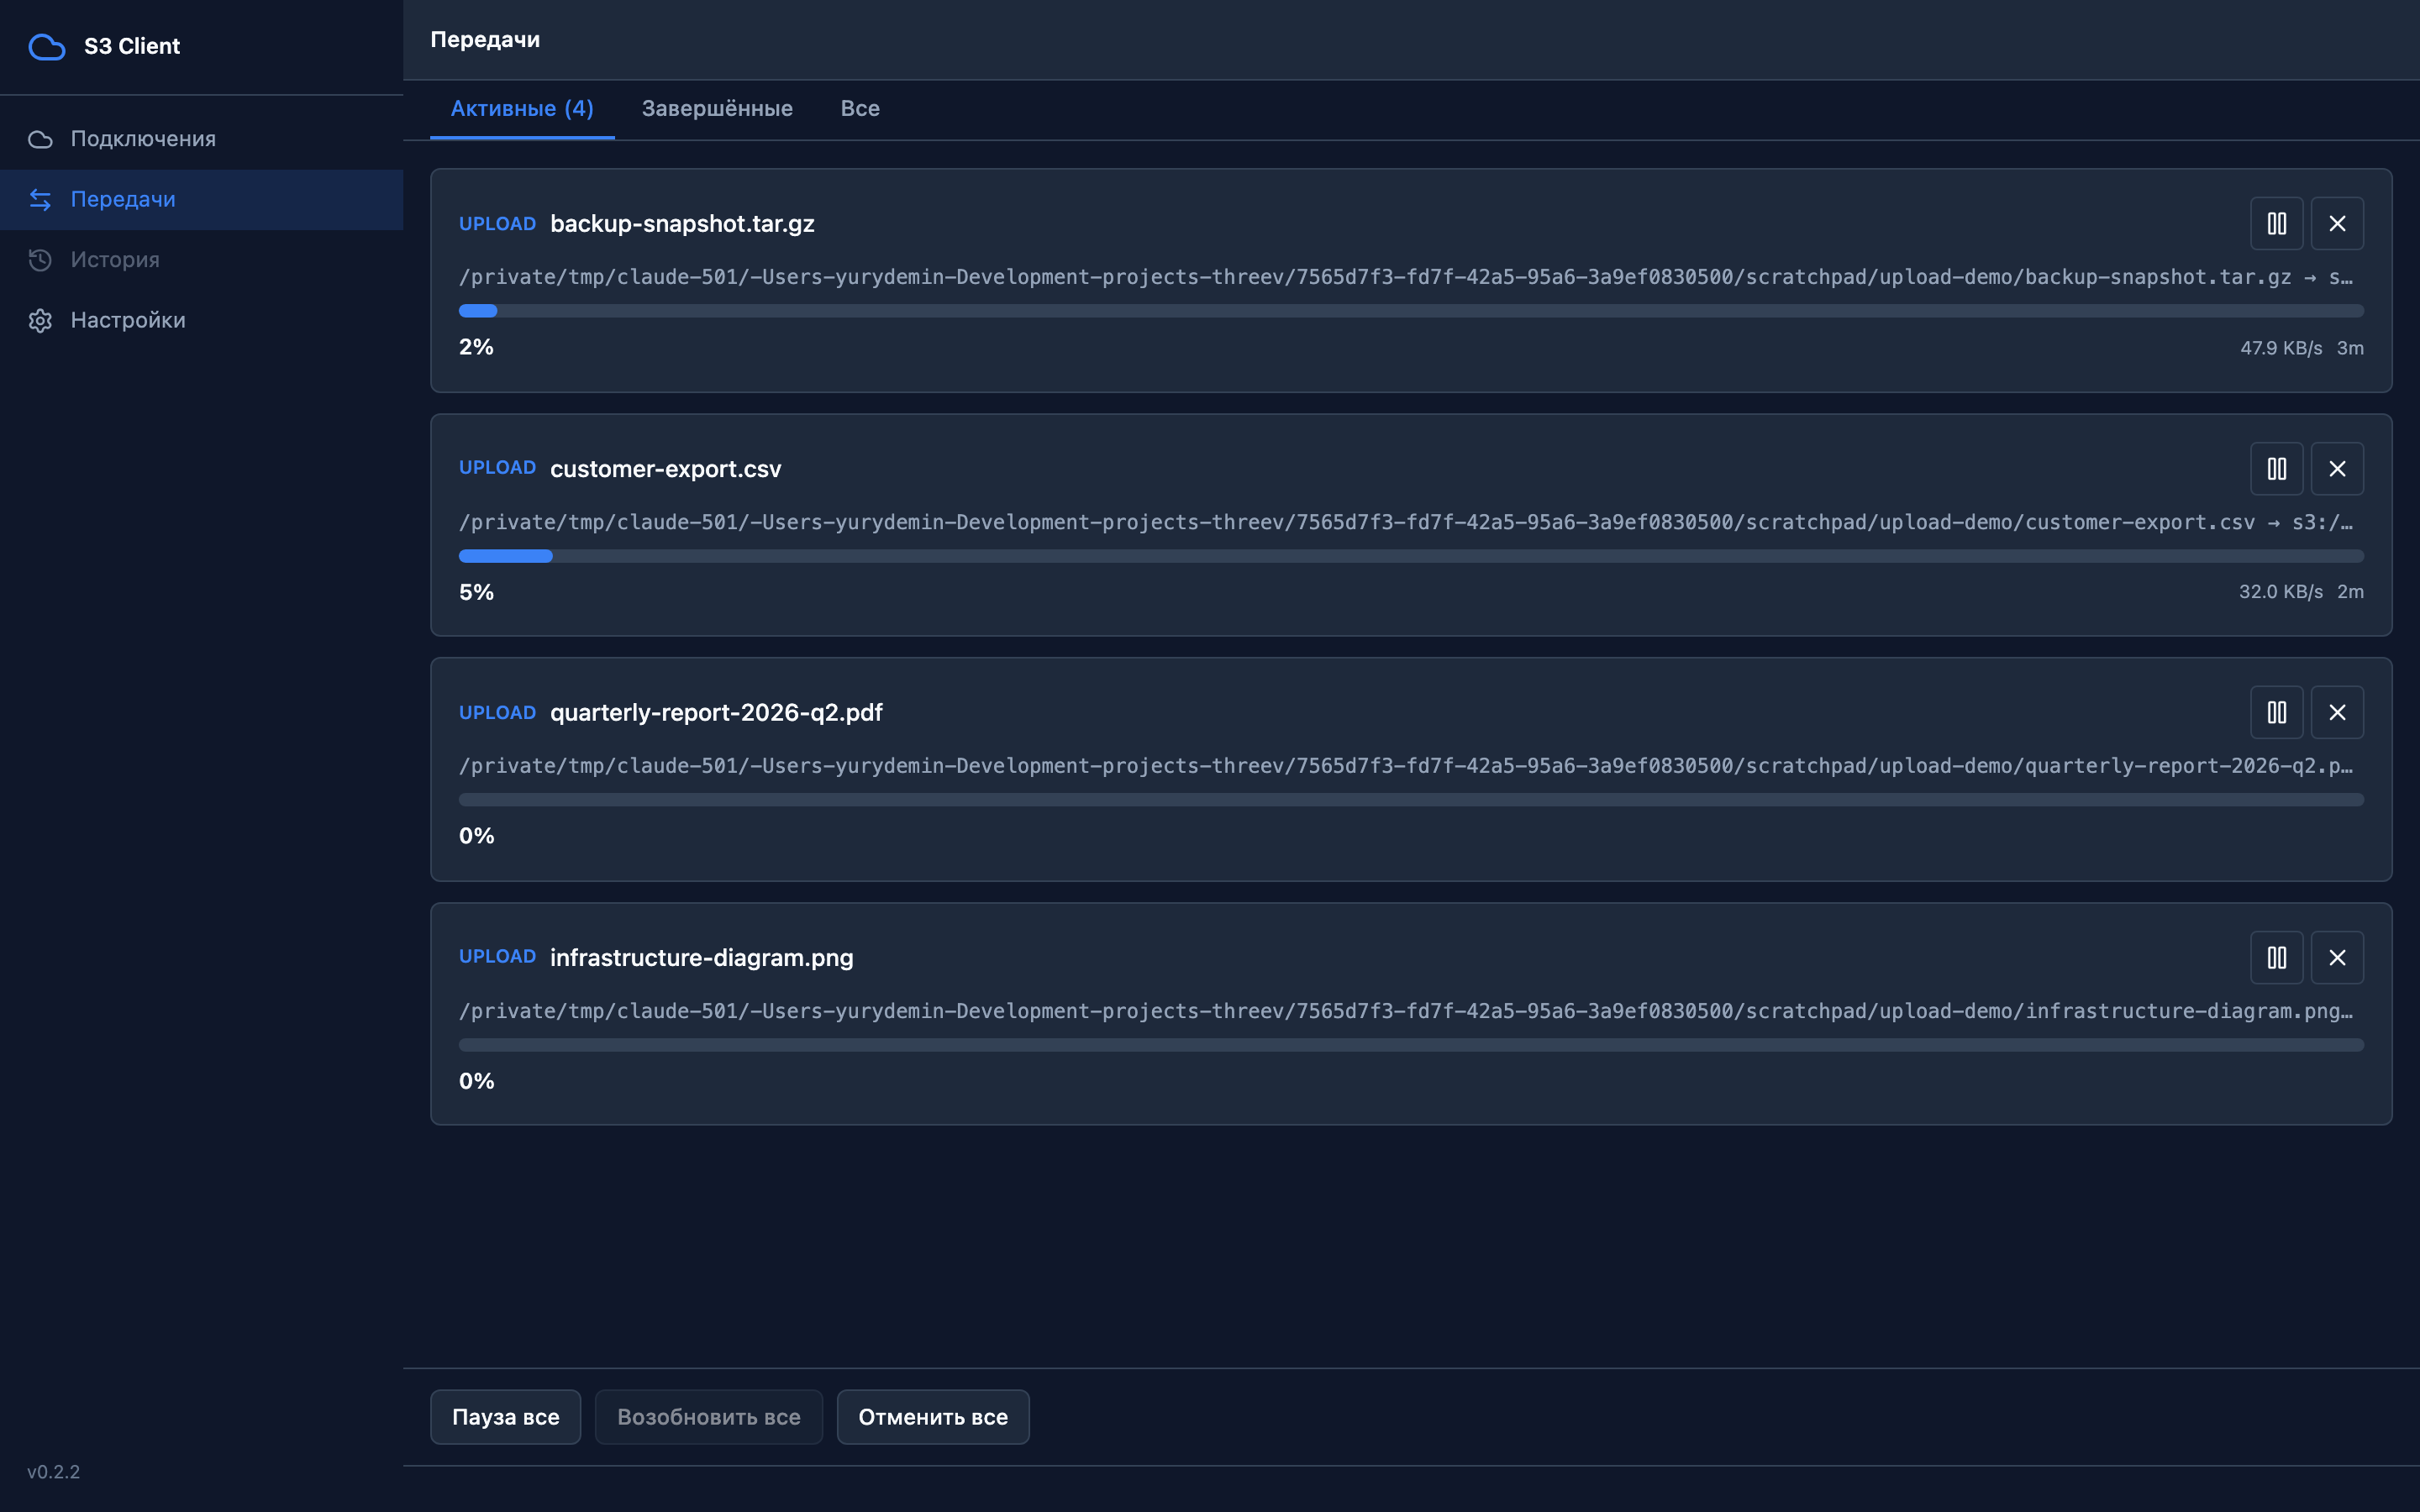
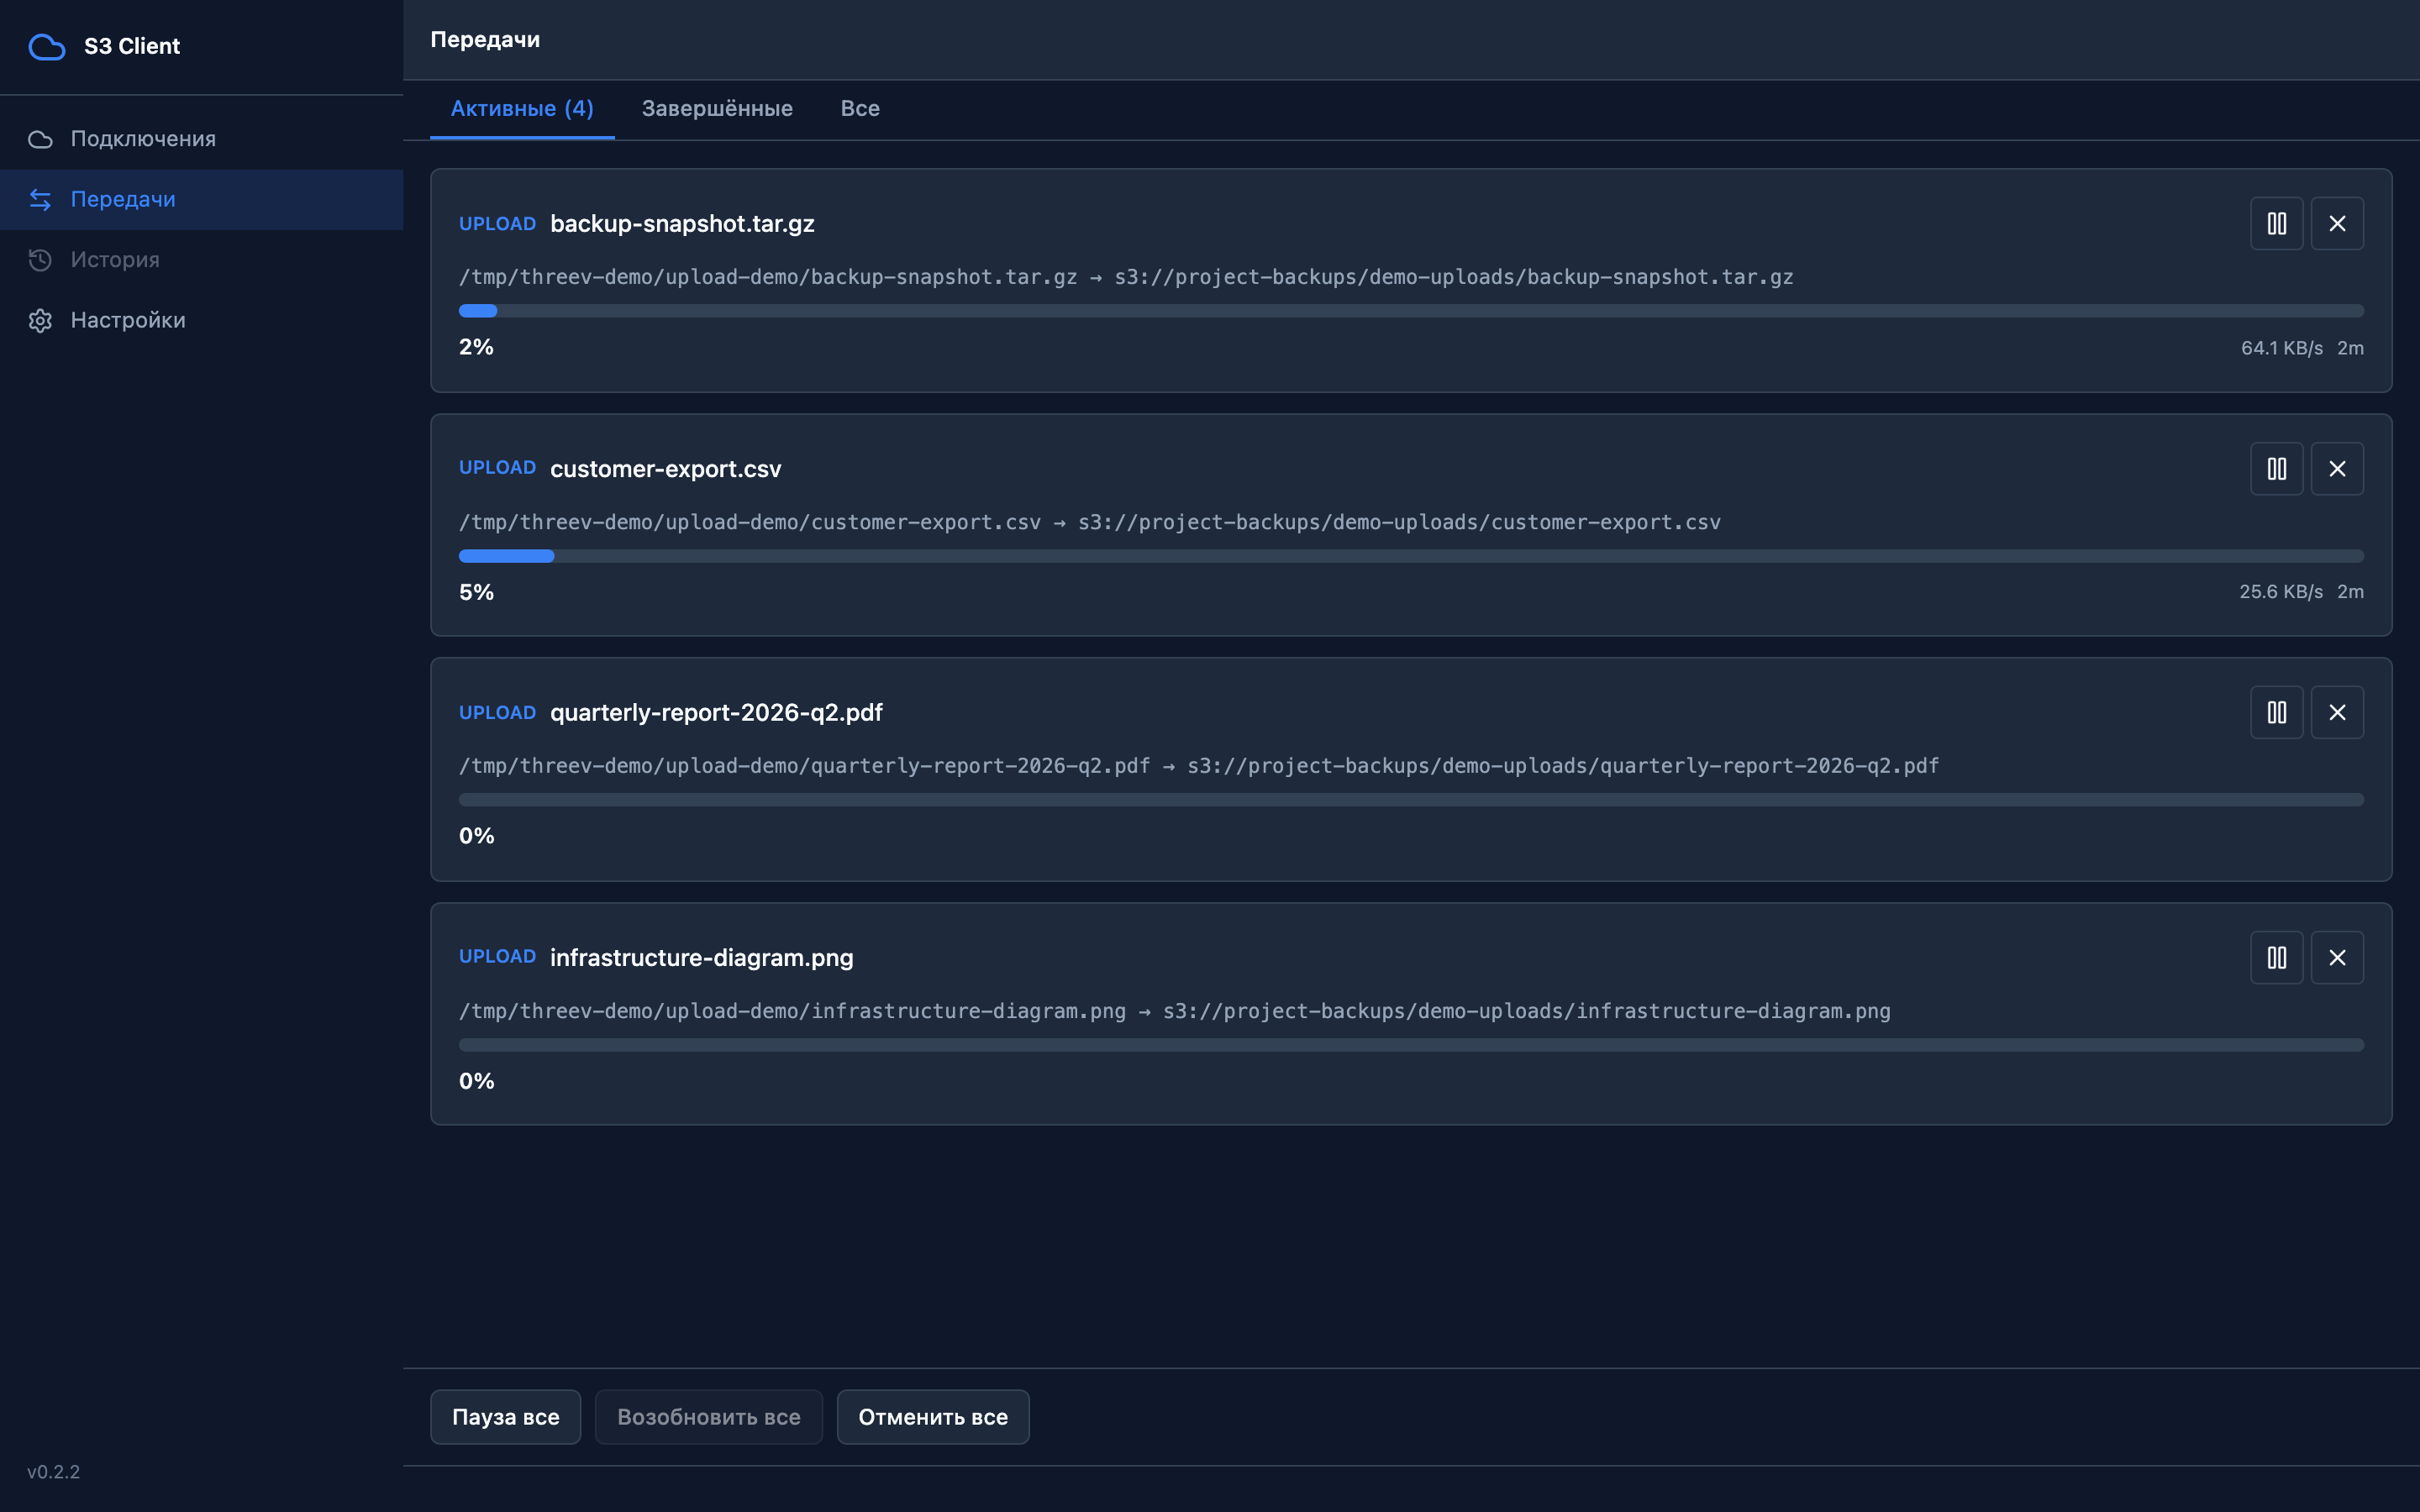
chore: scrub personal identity, fix README wording
Replace real author name/email with a project handle in LICENSE and
wails.json; regenerate the two transfer screenshots that leaked the
local macOS username via file paths. Also clarify README wording:
multiple connections means saved profiles (one active at a time), and
give preview its own bullet point.

diff --git a/README.md b/README.md
@@ -4,8 +4,9 @@
 
 ## Возможности
 
-- Несколько подключений с шифрованием credentials (AES-256-GCM), опционально — под мастер-паролем
-- Файловый менеджер: навигация по бакетам/папкам, поиск, сортировка, предпросмотр изображений/PDF/текста
+- Сохранение нескольких подключений (профилей), переключение между ними; credentials зашифрованы (AES-256-GCM), опционально — под мастер-паролем
+- Файловый менеджер: навигация по бакетам/папкам, поиск, сортировка
+- Предпросмотр изображений, PDF и текстовых файлов прямо в приложении
 - Загрузка и скачивание с multipart/range, устойчивостью к обрывам сети и возобновлением
 - Массовые операции: удаление, копирование, перемещение
 - Presigned URL, метаданные объектов, создание папок